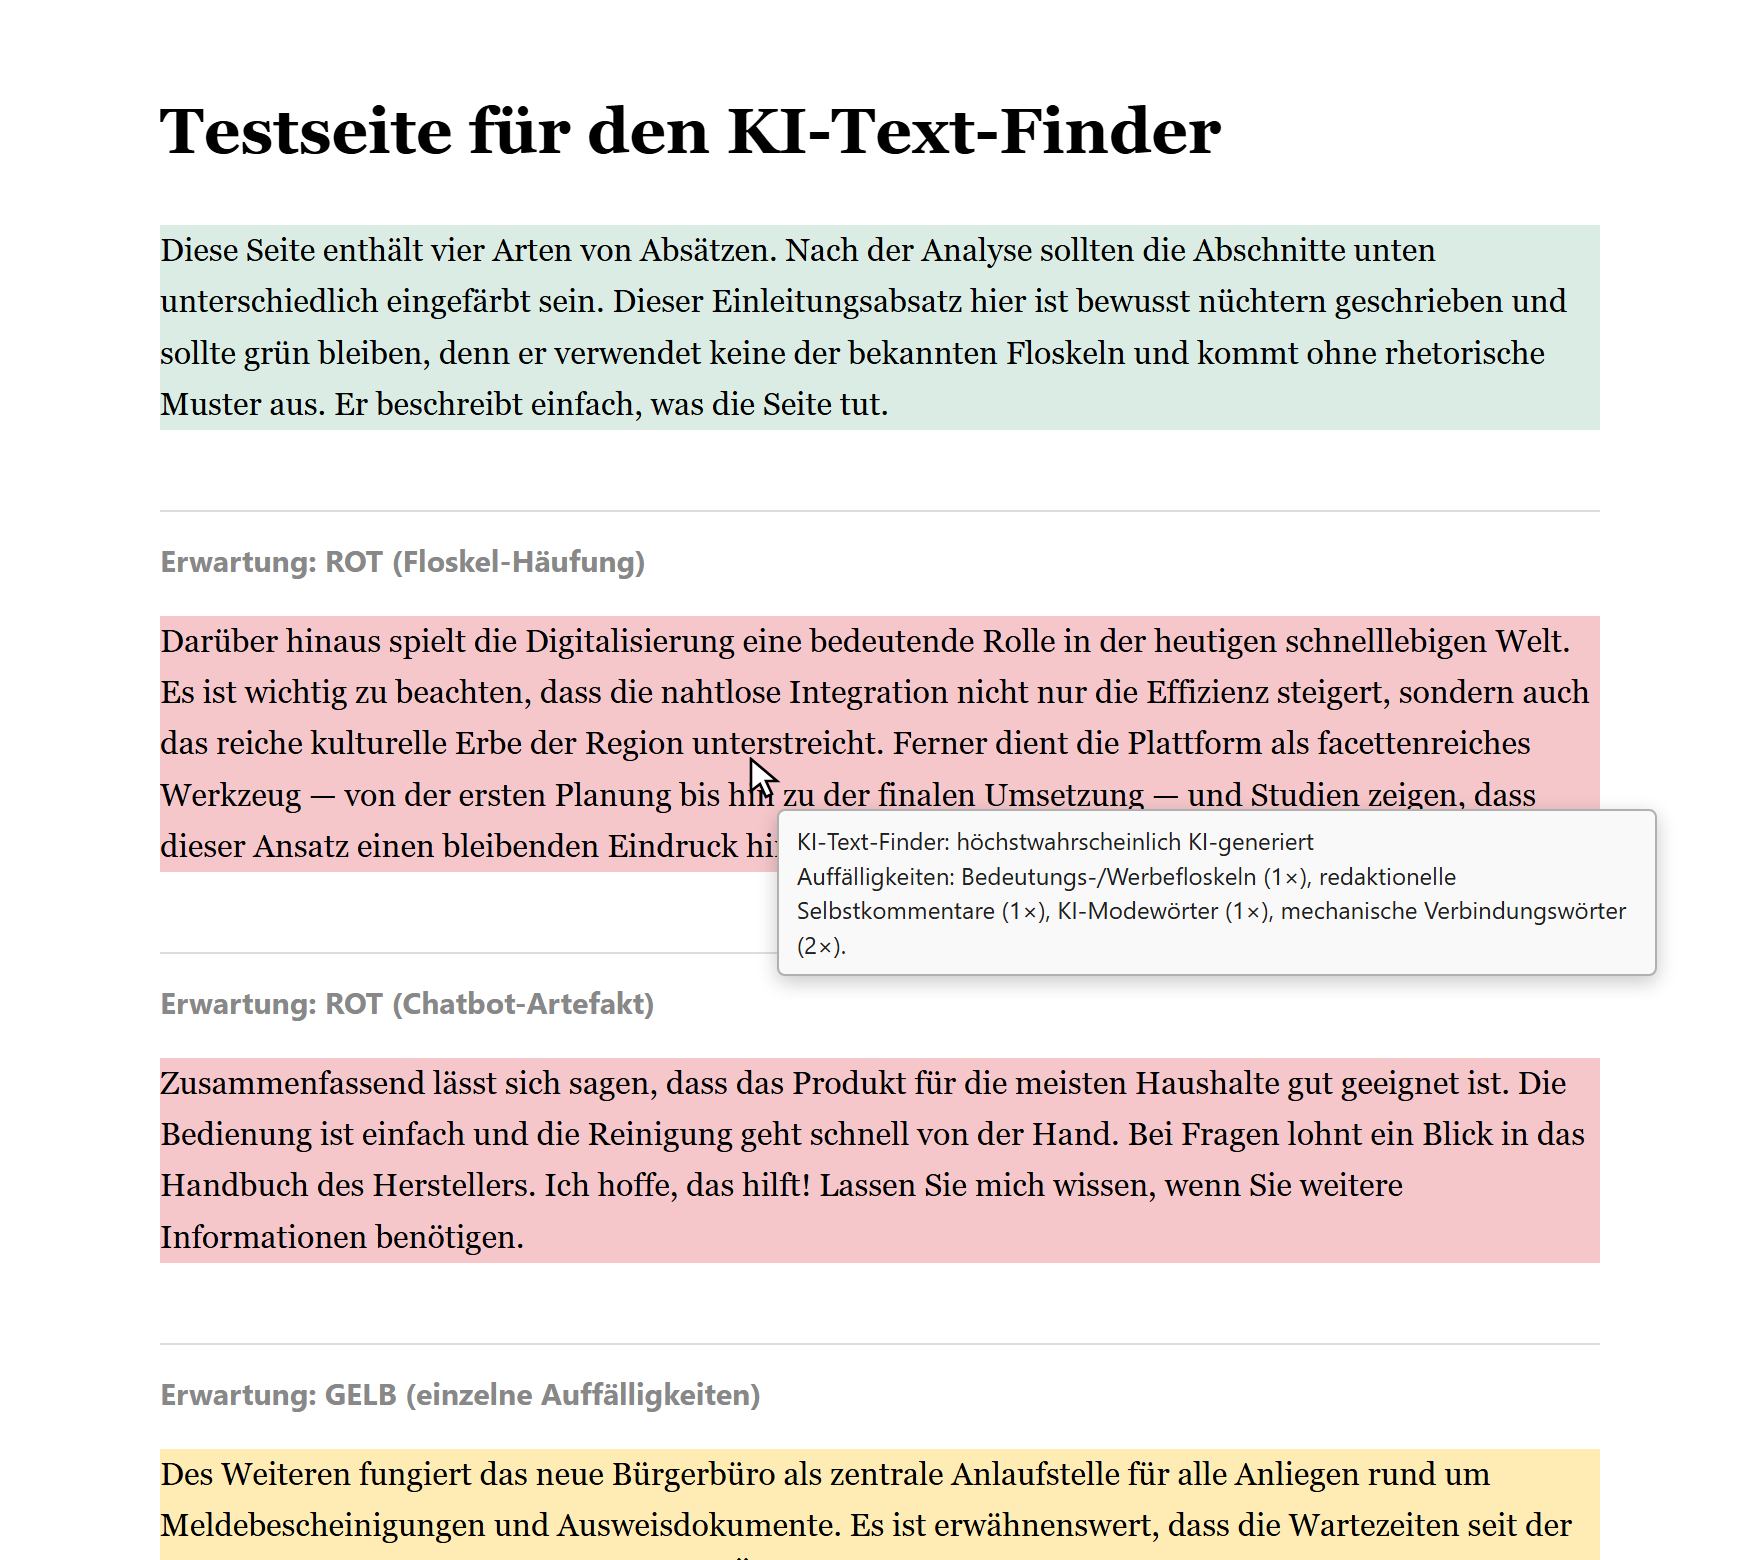
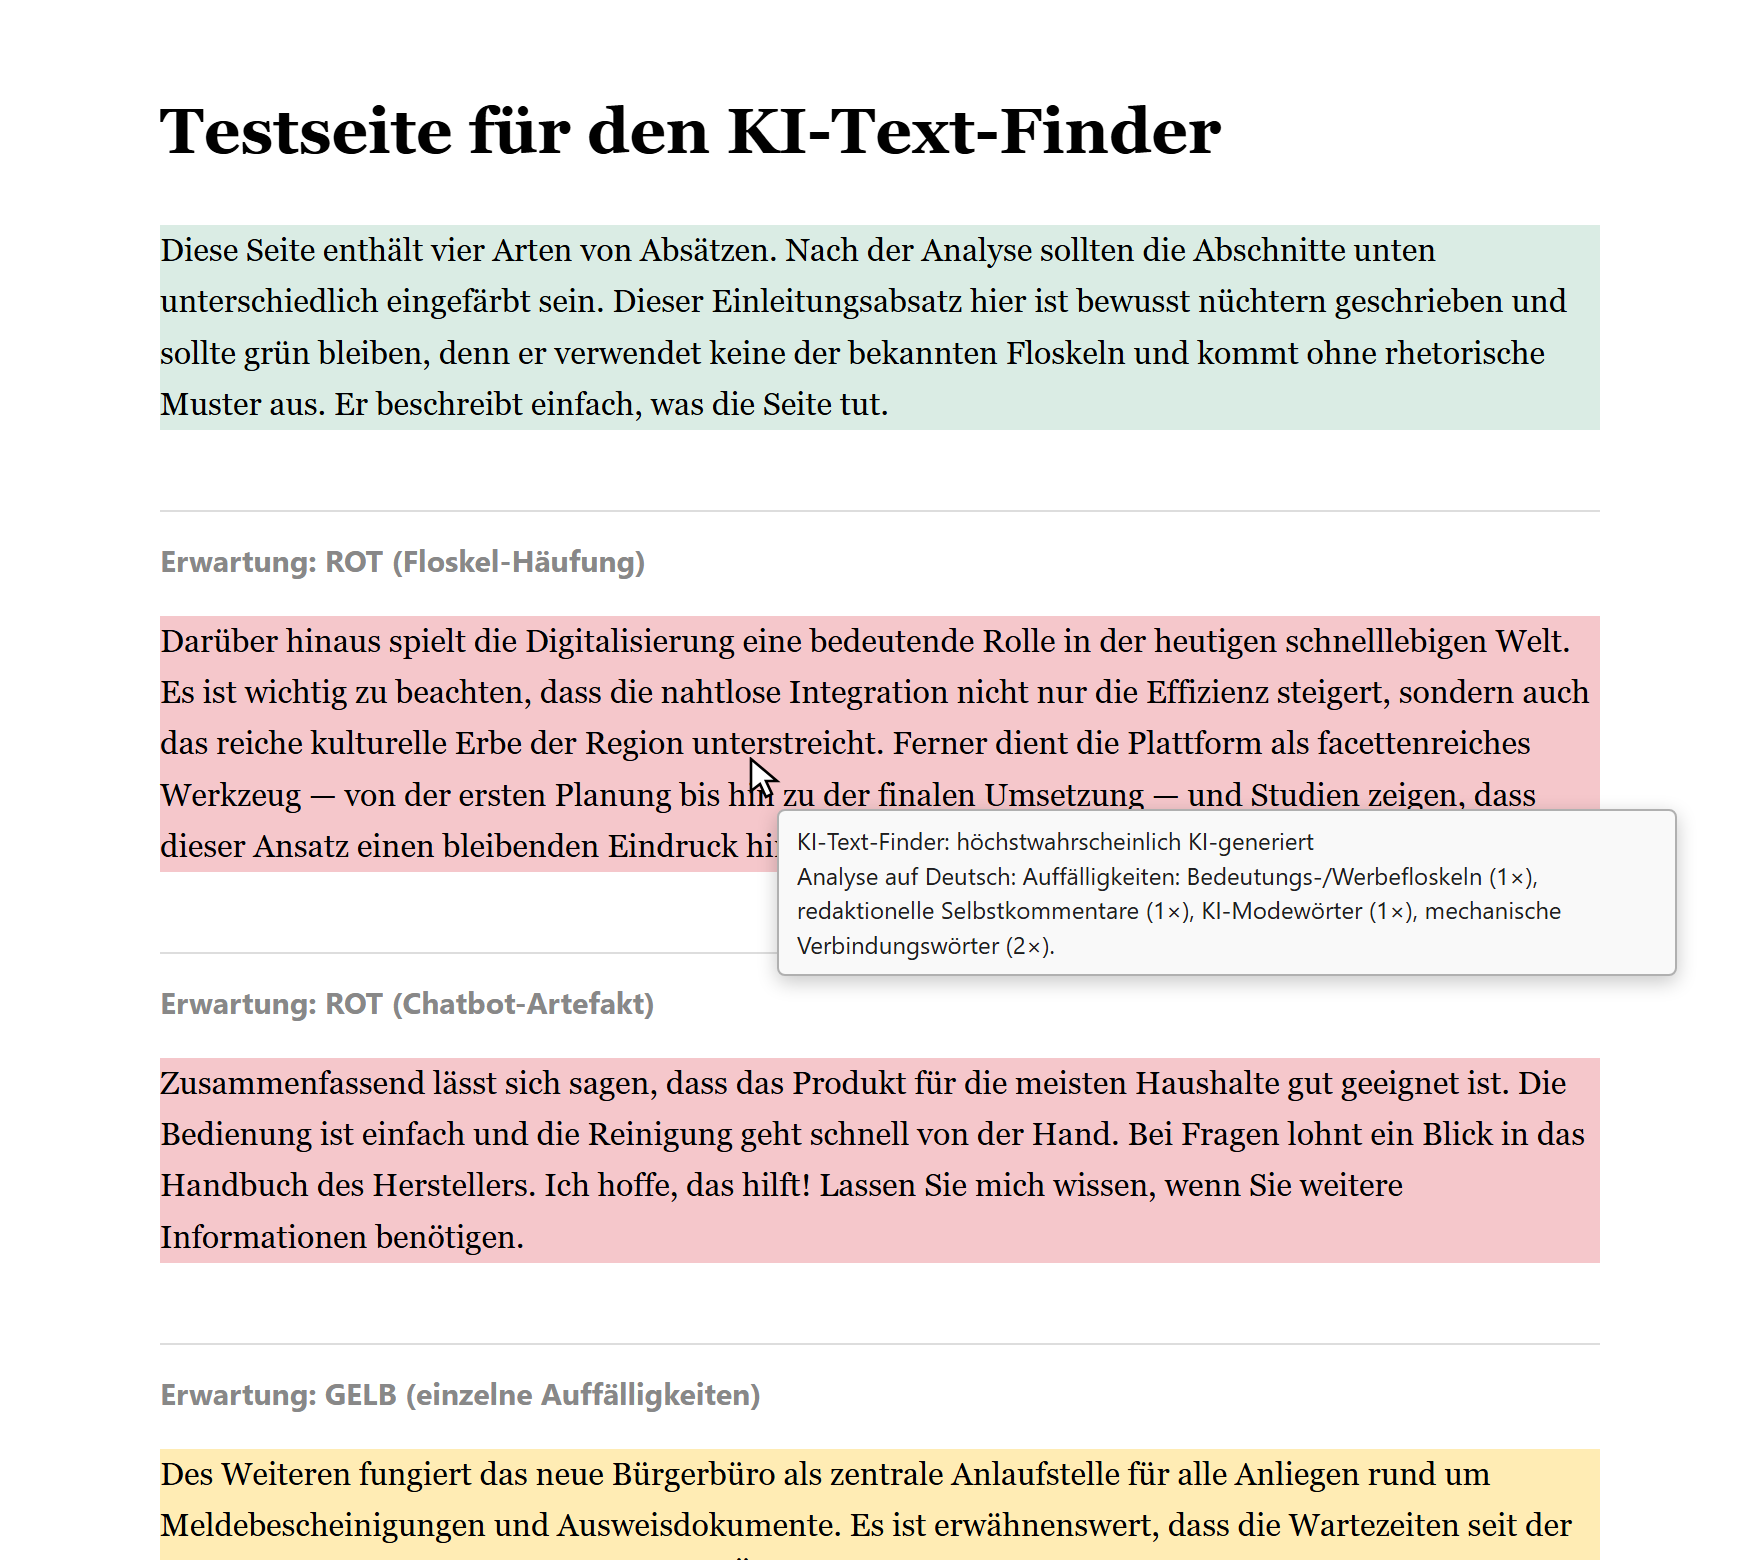
Screenshots und README auf 0.3.0 gebracht
Die Bilder zeigten noch den Stand vor Spracherkennung und Markierungs-Modus:
6 statt 9 Abschnitte und Tooltips ohne Sprachangabe.

Die Screenshot-Vorlagen werden jetzt aus den echten Projektdateien abgeleitet
(Testseite, popup.html, popup.js, heuristik.js) statt aus einer Handkopie -
genau die war zuletzt veraltet. Die Zahlen in den Bildern stammen damit aus
der laufenden Engine.

Neu: Markierungs-Screenshot mit Seite und Popup. Die Teilmarkierung reicht in
zwei Absaetze hinein und beide sind ganz eingefaerbt, damit sichtbar ist, dass
die Markierung die Bloecke auswaehlt und nicht die Faerbe-Granularitaet.

Dabei gefunden: Das Popup schrieb '1 Abschnitte bewertet'. Beim Markierungs-
Modus ist die Auswahl eines einzelnen Absatzes der Normalfall, deshalb jetzt
Singular/Plural korrekt.

Versions-Badge auf 0.3.0, Bedienungsteil neu gegliedert.

Changed region(s): [[0.4375, 0.5538, 0.9062, 0.6154]]

diff --git a/popup.js b/popup.js
@@ -83,10 +83,9 @@ analysierenBtn.addEventListener("click", async () => {
       setStatus(result?.error || "Unbekannter Fehler", true);
     } else {
       const c = result.counts;
+      const wort = result.total === 1 ? "Abschnitt" : "Abschnitte";
       const umfang =
-        result.scope === "selection"
-          ? "Abschnitte im markierten Bereich"
-          : "Abschnitte";
+        result.scope === "selection" ? `${wort} im markierten Bereich` : wort;
       let text =
         `${result.total} ${umfang} bewertet:\n` +
         `rot: ${c.rot}, gelb: ${c.gelb}, grün: ${c.gruen}\n` +

diff --git a/README.md b/README.md
@@ -1,7 +1,7 @@
 # KI-Text-Finder
 
 ![Chrome Manifest V3](https://img.shields.io/badge/Chrome-Manifest%20V3-4285F4?logo=googlechrome&logoColor=white)
-![Version](https://img.shields.io/badge/Version-0.1.0-blue)
+![Version](https://img.shields.io/badge/Version-0.3.0-blue)
 ![Analyse](https://img.shields.io/badge/Analyse-lokal%20oder%20Claude%20API-8A63D2)
 
 Chrome-Erweiterung, die Textabschnitte der aktuellen Webseite danach einfärbt, wie wahrscheinlich sie KI-generiert sind. Die Bewertung folgt einem Ampelschema; die Begründung zu jedem Abschnitt erscheint als Tooltip, wenn man mit der Maus darüberfährt.
@@ -51,13 +51,24 @@ Der Key wird nur in `chrome.storage.local` gespeichert und ausschließlich an ap
 
 Icon anklicken → **„Seite analysieren"**. Nach einigen Sekunden sind die Absätze eingefärbt; das Popup zeigt die Verteilung und den verwendeten Analyse-Modus. **„Markierungen entfernen"** stellt die Seite wieder her.
 
-Ist auf der Seite Text markiert, bewertet die Erweiterung nur die Abschnitte, die die Markierung berührt – der Button heißt dann **„Markierten Text analysieren"**. Das spart im Claude-Modus Kosten und Wartezeit und erreicht auch Stellen weit unten auf sehr langen Seiten, wo die Obergrenze von 120 Abschnitten sonst greift. Bewertet und eingefärbt wird immer der ganze Absatz, auch wenn die Markierung nur einen Teil davon abdeckt.
-
 Die Checkbox **„mit KI untersuchen"** steuert den Modus: Ohne hinterlegten Key ist sie ausgegraut und es läuft immer die lokale Erkennung. Mit Key ist sie standardmäßig aktiv, kann aber abgewählt werden, wenn die schnelle, kostenlose Analyse reichen soll. Die Auswahl bleibt gespeichert.
 
 Zum Ausprobieren liegt eine [Testseite](test-seite.html) bei, deren Absätze die typischen Fälle abdecken: Floskel-Häufung und Chatbot-Artefakt, einzelne Auffälligkeiten, unauffälliger Text – jeweils auf Deutsch und Englisch, dazu ein deutscher Absatz mit englischer Typografie.
 
 <br clear="right">
+
+### Nur einen Ausschnitt prüfen
+
+Ist auf der Seite Text markiert, bewertet die Erweiterung nur die Abschnitte, die die Markierung berührt – der Button heißt dann **„Markierten Text analysieren"**. Das spart im Claude-Modus Kosten und Wartezeit und erreicht auch Stellen weit unten auf sehr langen Seiten, wo die Obergrenze von 120 Abschnitten sonst greift. Bewertet und eingefärbt wird immer der ganze Absatz, auch wenn die Markierung nur einen Teil davon abdeckt. Ist die Markierung kürzer als 150 Zeichen, meldet das Popup das, statt eine Einschätzung auf dünner Grundlage abzugeben.
+
+<table>
+<tr>
+<td width="66%"><img src="docs/screenshots/auswahl.png" alt="Zwei Absätze sind teilweise markiert und komplett rot eingefärbt, die übrigen Absätze der Seite bleiben ungefärbt"></td>
+<td><img src="docs/screenshots/popup-markierung.png" alt="Popup mit dem Button „Markierten Text analysieren" und dem Ergebnis für den markierten Bereich"></td>
+</tr>
+</table>
+
+<sub>Die Markierung reicht in zwei Absätze hinein – bewertet werden beide vollständig, der Rest der Seite bleibt unberührt.</sub>
 
 ## Wie es funktioniert
 

diff --git a/store/eintrag.md b/store/eintrag.md
@@ -43,6 +43,7 @@ Wird automatisch aus der `description` in [manifest.json](../manifest.json) übe
 - Store-Icon 128×128: [icons/icon128.png](../icons/icon128.png)
 - Screenshots 1280×800: [store/screenshots/](screenshots/)
   - `markierte-seite.png` – Testseite mit Ampel-Markierung und Tooltip
+  - `auswahl.png` – markierter Text: nur die berührten Absätze werden bewertet
   - `popup.png` – Popup mit Analyse-Ergebnis
   - `einstellungen.png` – Einstellungsseite
 
